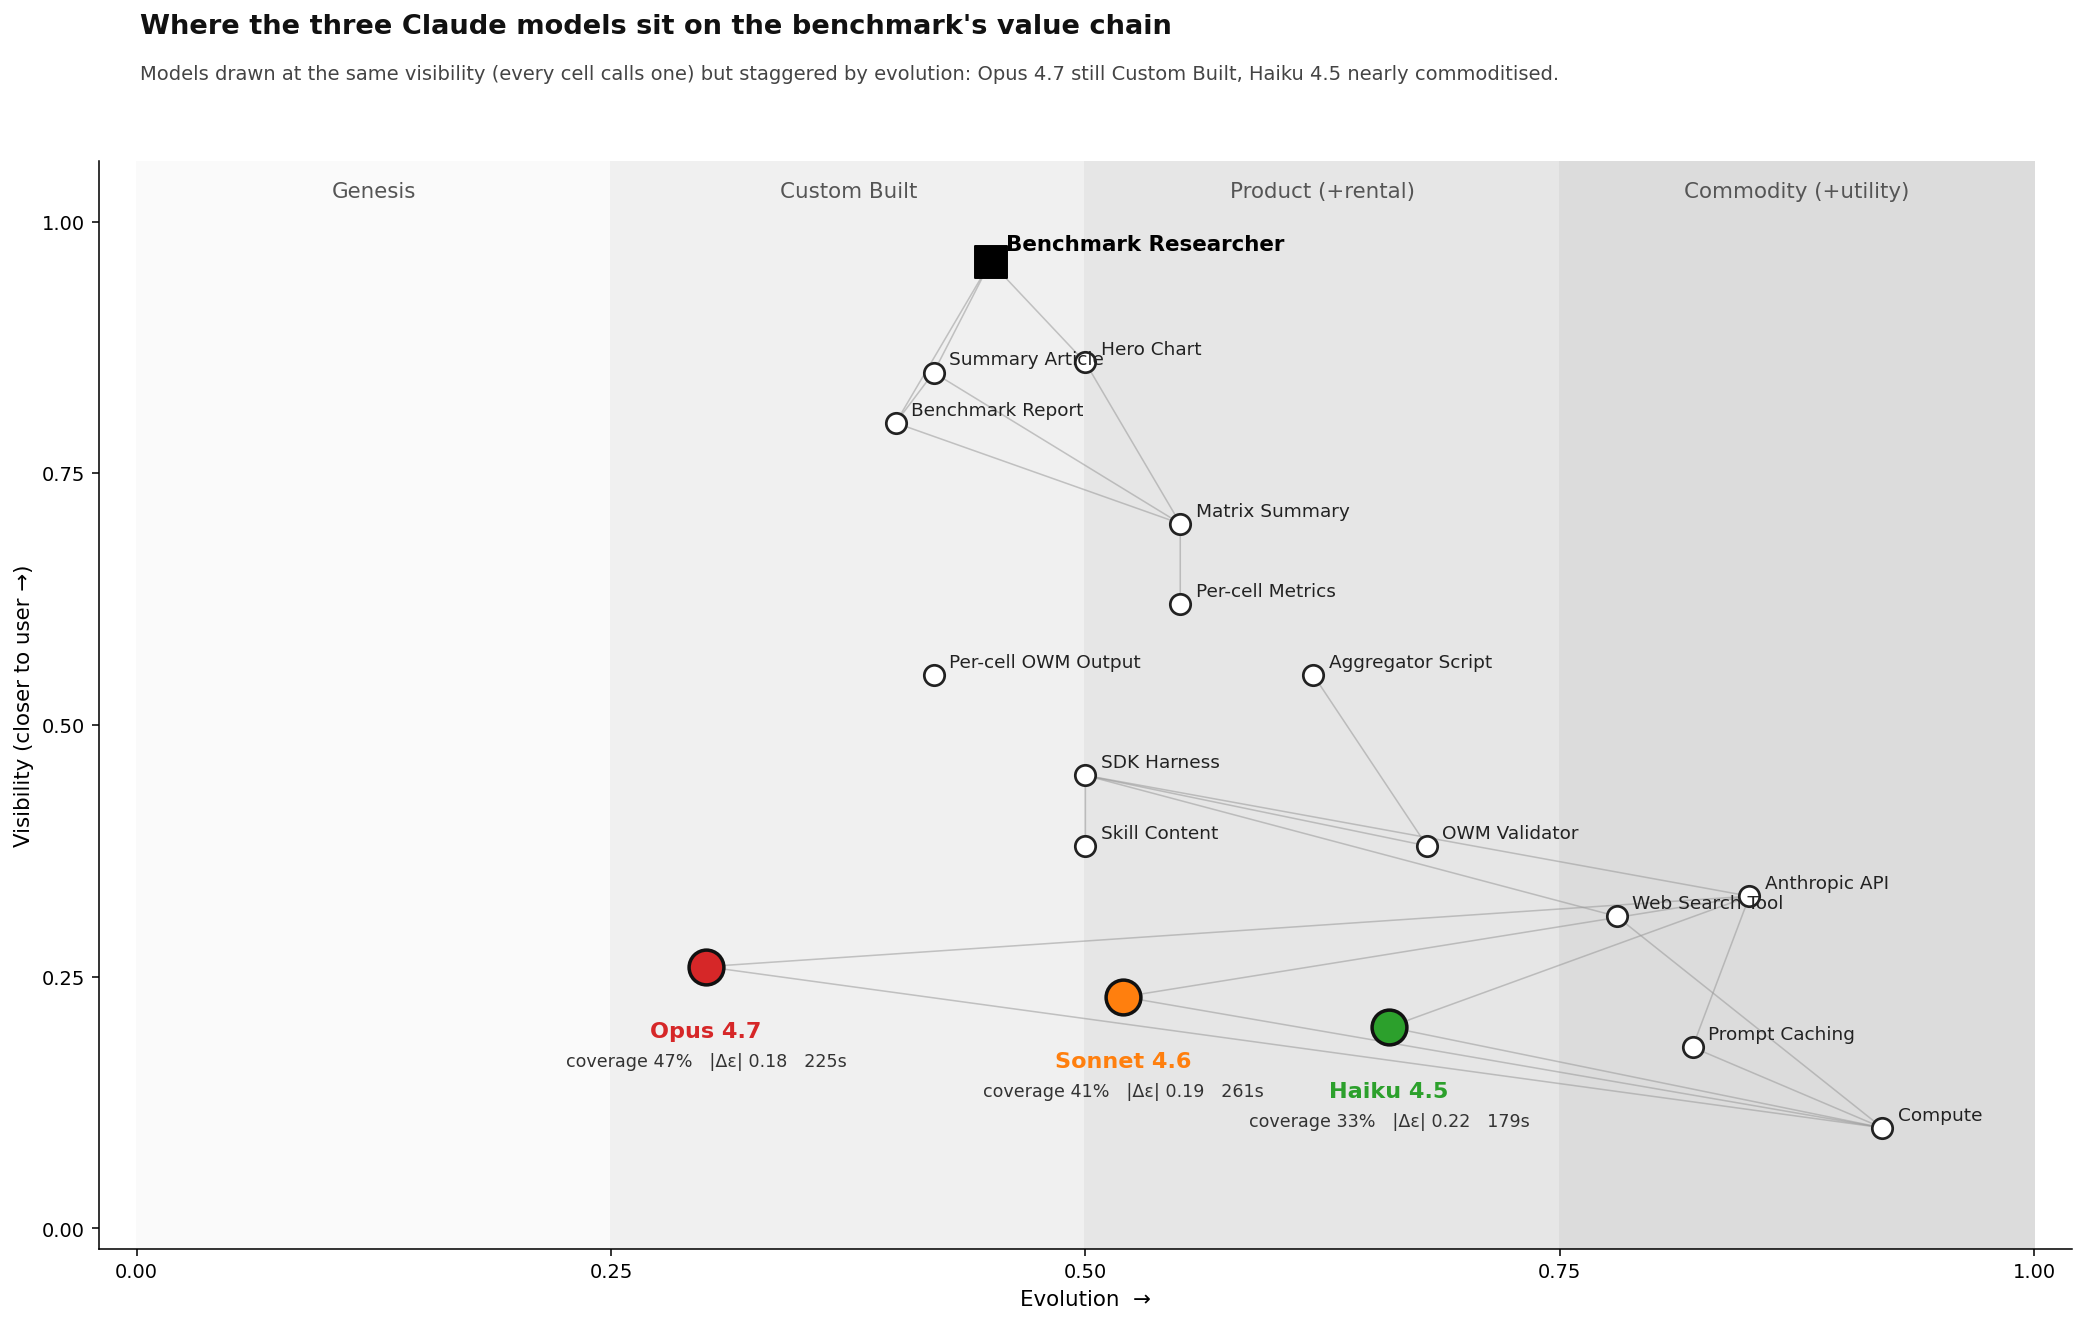
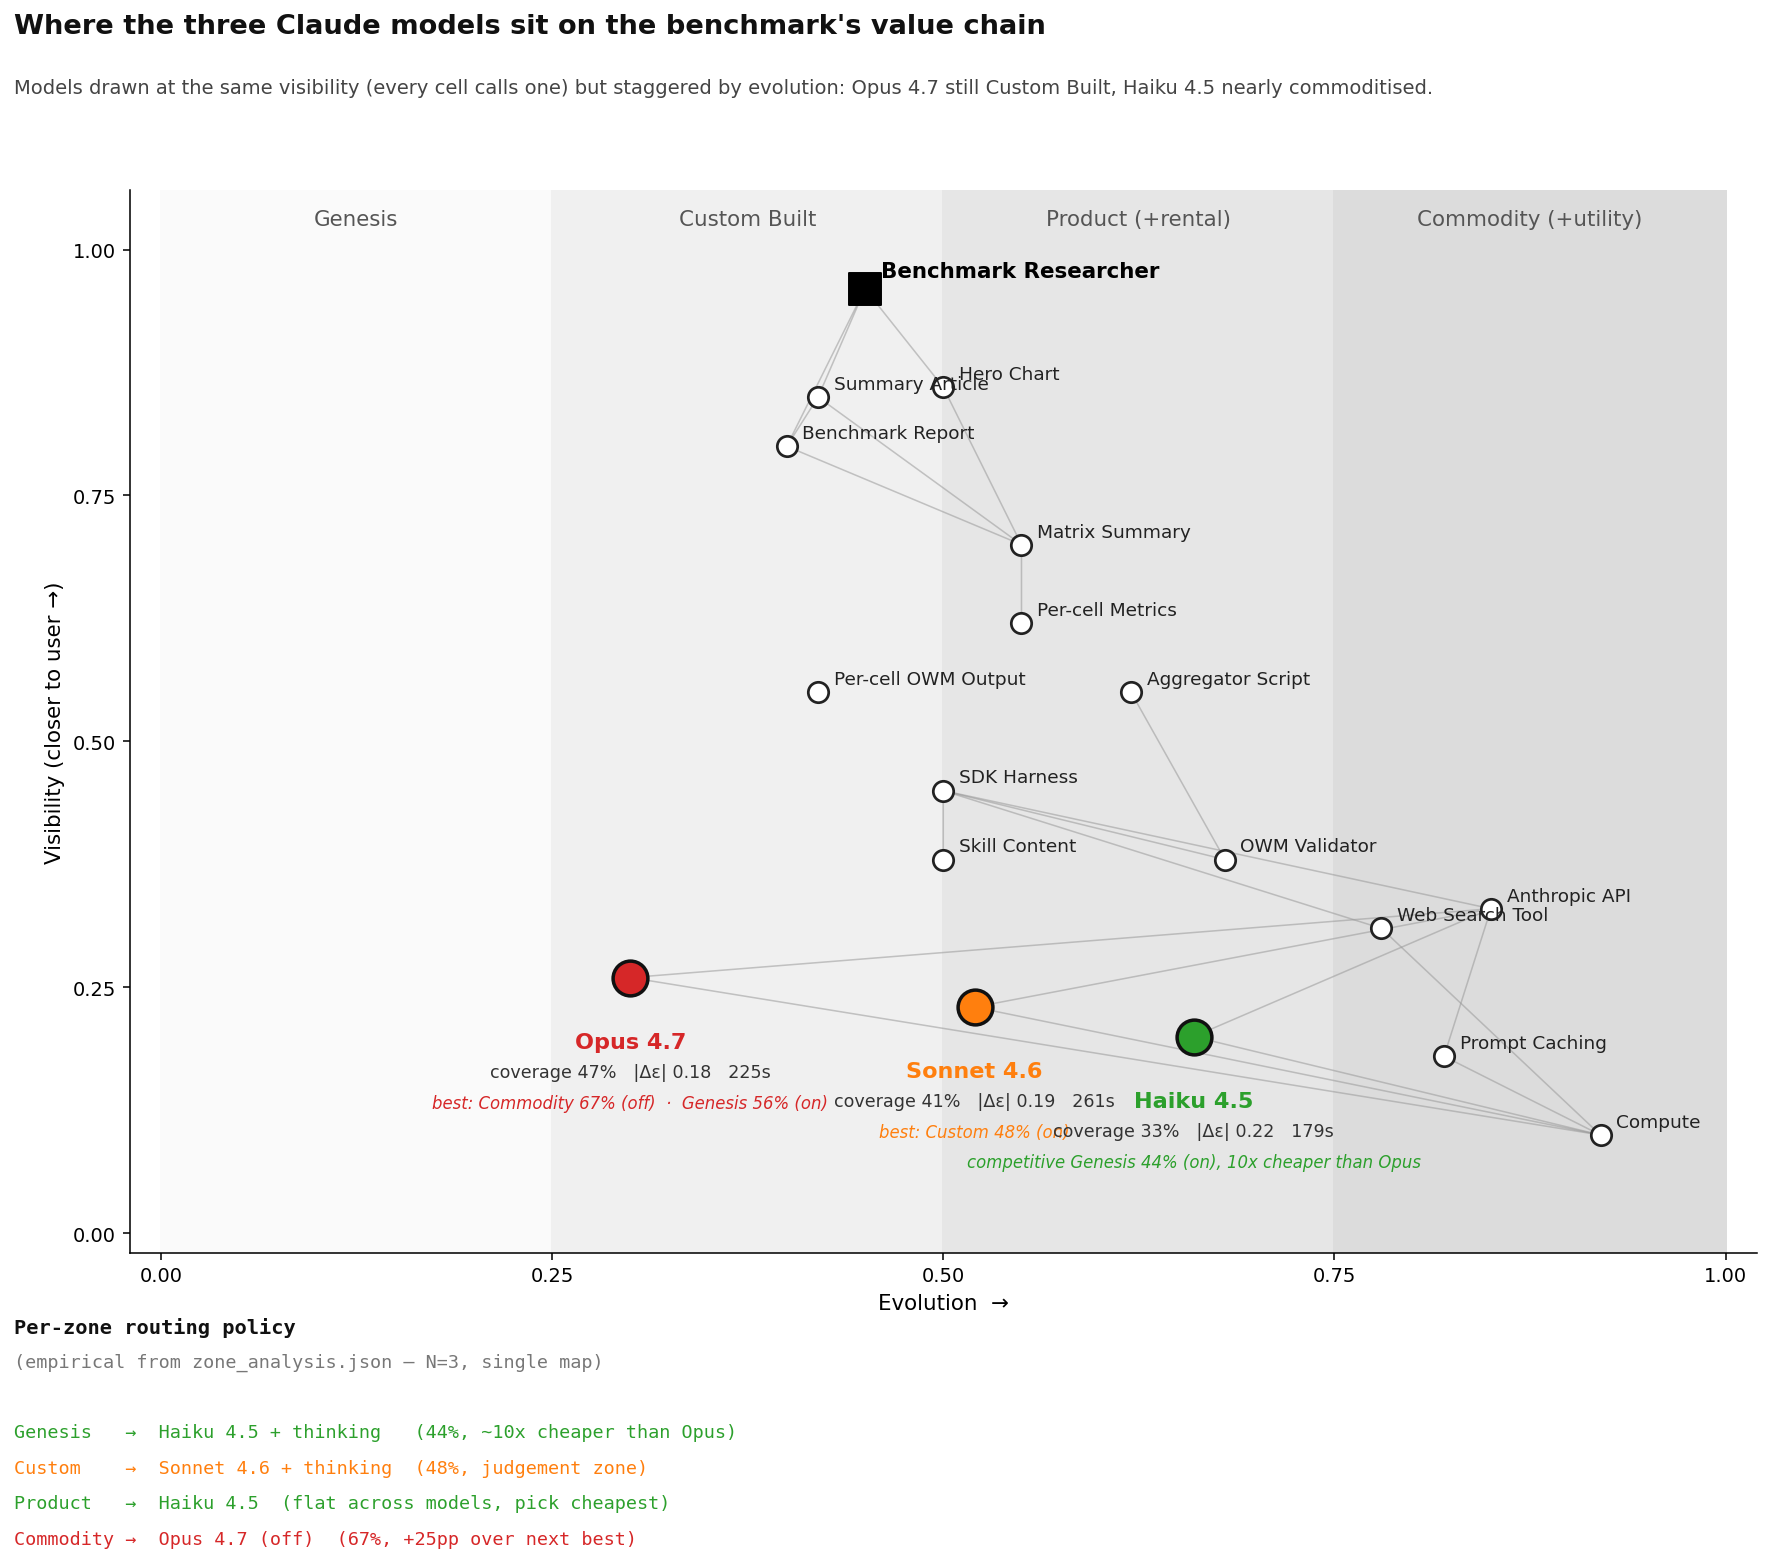
Annotate benchmark map with per-zone routing policy
Each model node gets its zone-strength caption (best zone + coverage %);
caption strip below the axes spells out the routing policy with per-line
model colour-coding. Value chain stays unobstructed (panel moved out of
the data area into a dedicated figure region).

diff --git a/skills/wardley-map-workspace/model-thinking-bench/render_benchmark_map.py b/skills/wardley-map-workspace/model-thinking-bench/render_benchmark_map.py
@@ -45,19 +45,23 @@ def main():
     anchors, components, edges = parse_owm(OWM.read_text())
     summary = {(r["model"], r["thinking"]): r for r in json.loads(SUMMARY.read_text())}
 
-    # Performance call-outs for each model (thinking off — the practical default)
+    # Per-zone routing finding from zone_analysis.json — what each model is best at.
+    # Opus appears for both Genesis-on and Commodity-off; the model_strength
+    # caption captures the headline cell.
     perf_lines = {
         "Opus 4.7": _perf("claude-opus-4-7", summary),
         "Sonnet 4.6": _perf("claude-sonnet-4-6", summary),
         "Haiku 4.5": _perf("claude-haiku-4-5-20251001", summary),
     }
-    model_colors = {
-        "Opus 4.7": "#d62728",
-        "Sonnet 4.6": "#ff7f0e",
-        "Haiku 4.5": "#2ca02c",
+    model_strength = {
+        "Opus 4.7":   ("best: Commodity 67% (off)  ·  Genesis 56% (on)", "#d62728"),
+        "Sonnet 4.6": ("best: Custom 48% (on)", "#ff7f0e"),
+        "Haiku 4.5":  ("competitive Genesis 44% (on), 10x cheaper than Opus", "#2ca02c"),
     }
+    model_colors = {name: color for name, (_, color) in model_strength.items()}
 
-    fig, ax = plt.subplots(figsize=(15.0, 9.5), dpi=140)
+    fig, ax = plt.subplots(figsize=(15.0, 11.5), dpi=140)
+    plt.subplots_adjust(bottom=0.22)  # reserve space for the routing panel
 
     # Evolution zone backgrounds
     zones = [
@@ -99,14 +103,13 @@ def main():
         ax.annotate(name, (e, v), xytext=(8, 4), textcoords="offset points",
                     fontsize=9.5, color="#222", zorder=4)
 
-    # Highlighted: the three models
+    # Highlighted: the three models, each with a zone-strength badge.
     for name, color in model_colors.items():
         if name not in components:
             continue
         v, e = components[name]
         ax.scatter([e], [v], s=320, color=color, edgecolor="#111",
                    linewidth=1.8, zorder=5)
-        # Model name + perf line
         ax.annotate(
             name,
             (e, v),
@@ -124,6 +127,40 @@ def main():
                 ha="center", va="top",
                 fontsize=9, color="#333", zorder=6,
             )
+        strength_text, _ = model_strength.get(name, ("", ""))
+        if strength_text:
+            ax.annotate(
+                strength_text,
+                (e, v),
+                xytext=(0, -60),
+                textcoords="offset points",
+                ha="center", va="top",
+                fontsize=8.5, color=color, fontstyle="italic", zorder=6,
+            )
+
+    # Per-zone routing policy panel (top-right)
+    routing_lines = [
+        ("Per-zone routing policy", "#111", True),
+        ("(empirical from zone_analysis.json — N=3, single map)", "#777", False),
+        ("", "#000", False),
+        ("Genesis   →  Haiku 4.5 + thinking   (44%, ~10x cheaper than Opus)", "#2ca02c", False),
+        ("Custom    →  Sonnet 4.6 + thinking  (48%, judgement zone)", "#ff7f0e", False),
+        ("Product   →  Haiku 4.5  (flat across models, pick cheapest)", "#2ca02c", False),
+        ("Commodity →  Opus 4.7 (off)  (67%, +25pp over next best)", "#d62728", False),
+    ]
+    # Routing panel rendered in figure coordinates below the axes — keeps
+    # the value-chain area unobstructed.
+    panel_top_y = 0.18   # in figure coordinates
+    panel_left_x = 0.07
+    line_step = 0.022
+    for i, (text, color, bold) in enumerate(routing_lines):
+        fig.text(
+            panel_left_x, panel_top_y - i * line_step, text,
+            fontsize=10.5 if bold else 9.5,
+            fontweight="bold" if bold else "normal",
+            color=color, family="monospace",
+            ha="left", va="top",
+        )
 
     ax.set_xlim(-0.02, 1.02)
     ax.set_ylim(-0.02, 1.06)
@@ -146,7 +183,6 @@ def main():
         fontsize=10, color="#444", ha="left",
     )
 
-    plt.tight_layout(rect=[0, 0, 1, 0.93])
     plt.savefig(OUT, bbox_inches="tight", facecolor="white")
     print(f"wrote {OUT}")
 
